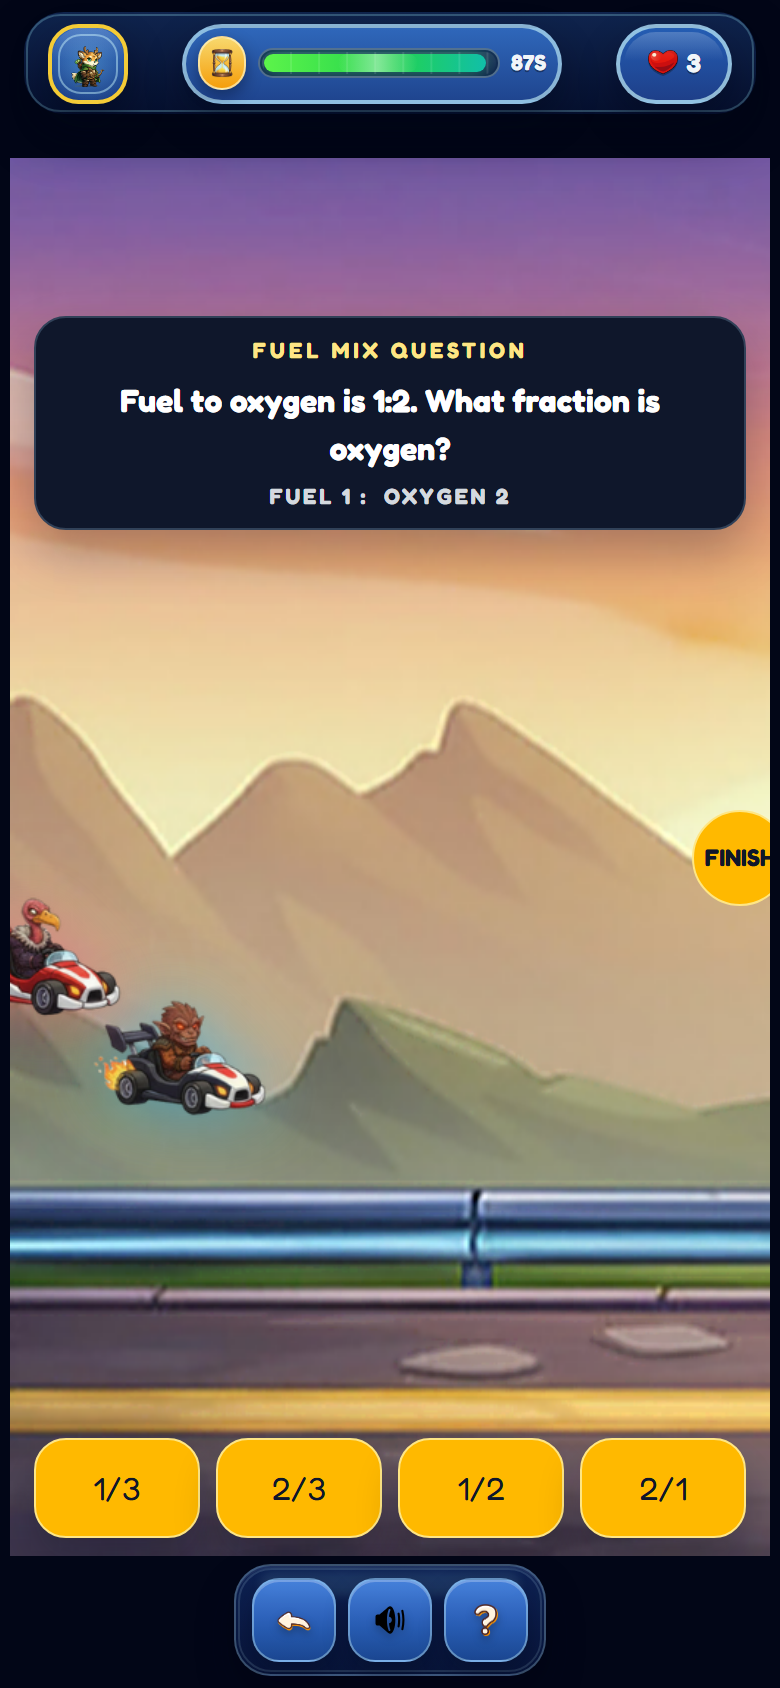
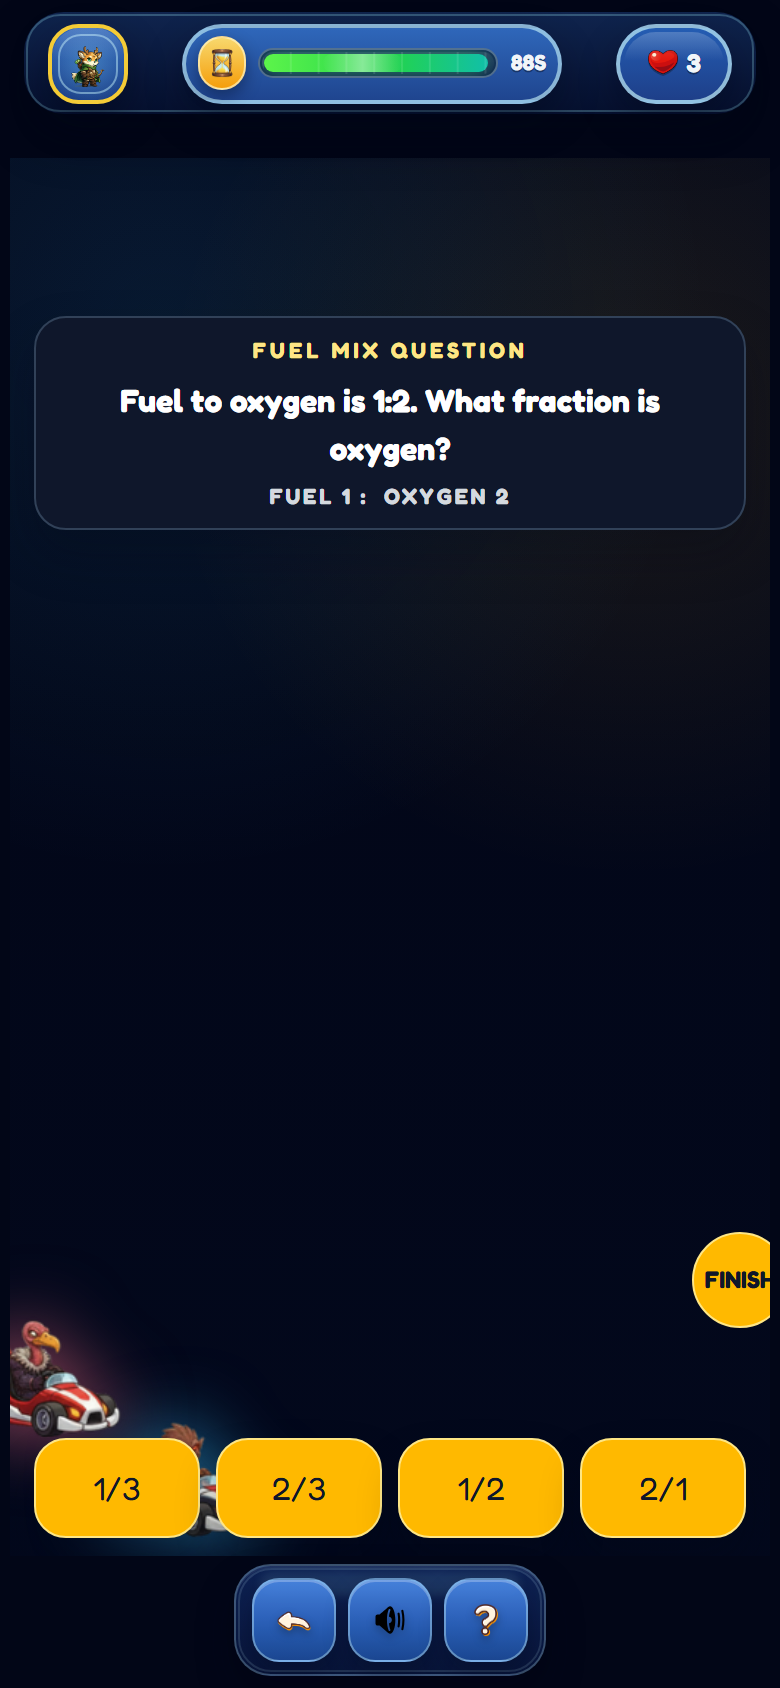
up

diff --git a/src/games/RatioFractionsGame.tsx b/src/games/RatioFractionsGame.tsx
@@ -10,6 +10,7 @@ import { DEFAULT_RACE_DIFFICULTY, RACE_TUNING, RaceDifficulty } from './ratioFra
 import { getQuestionTier, pickQuestionForTier } from './ratioFractionsRace/questionSelector';
 import { RatioFractionQuestion } from './ratioFractionsRace/types';
 import ratioBackdrop from '../assets/gokarts/racebkgrd-hd.png';
+import ratioBackdrop2x from '../assets/gokarts/racebkgrd-2x.jpg';
 import playerKart from '../assets/gokarts/12.png';
 import enemyKart from '../assets/gokarts/15.png';
 
@@ -320,7 +321,7 @@ const RatioFractionsGame: React.FC<RatioFractionsGameProps> = ({
     100,
   );
   const maxBackdropScroll = Math.max(0, BACKDROP_WIDTH - viewport.width);
-  const backgroundOffset = clamp(trackProgress * maxBackdropScroll, 0, maxBackdropScroll);
+  const backgroundOffset = Math.round(clamp(trackProgress * maxBackdropScroll, 0, maxBackdropScroll));
 
   const playerStyle = {
     transform: 'translate(-50%, -50%)',
@@ -347,7 +348,7 @@ const RatioFractionsGame: React.FC<RatioFractionsGameProps> = ({
           className="pointer-events-none absolute inset-0"
           style={{
             backgroundColor: '#0b0f1c',
-            backgroundImage: `url(${ratioBackdrop})`,
+            backgroundImage: `image-set(url(${ratioBackdrop}) 1x, url(${ratioBackdrop2x}) 2x)`,
             backgroundRepeat: 'no-repeat',
             backgroundSize: `${BACKDROP_WIDTH}px ${BACKDROP_HEIGHT}px`,
             backgroundPosition: `${-backgroundOffset}px bottom`,
